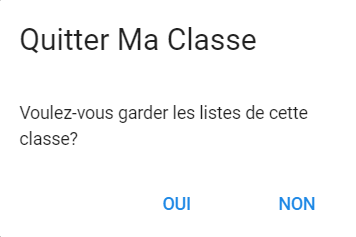
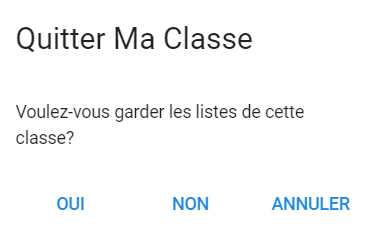
Cleaned up joinclass screen

diff --git a/vue-vocs/src/components/Classe/JoinClass.vue b/vue-vocs/src/components/Classe/JoinClass.vue
@@ -1,114 +1,156 @@
+<!--////////////////////////////////////////////////////////////////////////////////////////////////////////////////////////////-->
+<!--////////////////////////////////////////////////////////////////////////////////////////////////////////////////////////////-->
+<!--////////////////////////////////////////////////////////////////////////////////////////////////////////////////////////////-->
+<!--//////////////////////////////////////////////////////////TEMPLATE///////////////////////////////////////////////////////// -->
+<!--////////////////////////////////////////////////////////////////////////////////////////////////////////////////////////////-->
+<!--////////////////////////////////////////////////////////////////////////////////////////////////////////////////////////////-->
+<!--////////////////////////////////////////////////////////////////////////////////////////////////////////////////////////////-->
+
 <template>
   <v-container fluid style="padding-top: 90px; background-color: #8BC3DC; padding-right: 0px; padding-left: 0px; padding-bottom: 0px">
-    <v-layout row wrap >
-      <v-flex xs6 offset-xs3 class="mb-4">
-        <v-card color="white" style="border-radius: 500px; height: 220px; width:220px; padding-top: 30px; margin:auto" class="white--text">
-          <div class="text-xs-center mt-3">
-            <v-icon class="gray--text" style="font-size: 120px; margin-right: 1%; margin-top: 3%">school</v-icon>
-          </div>
-        </v-card>
-      </v-flex>
-    </v-layout>
-    <v-layout row wrap>
-      <v-flex class="text-xs-center">
-        <h2 class="white--text">Rejoindre une classe</h2>
-      </v-flex>
-    </v-layout>
-    <v-layout style="background-color: #ebebeb" row wrap>
-      <v-card style="width:100%; height: 309px" class="gray--text text-xs-center">
-        <v-select
-          style="width: 30%; margin: auto; margin-top: 13px"
-          :items="allSchools"
-          v-model="schoolSearch"
-          label="Enter un établissement"
-          autocomplete
-          required
-        ></v-select>
-        <v-select
-          style="width: 30%; margin: auto; margin-top: 13px"
-          :items="theClasses"
-          v-model="classSearch"
-          label="Enter une class"
-          required
-        ></v-select>
-        <br>
-        <v-btn :disabled="classSearch === ''" @click="showJoinClassDialog = true">Envoyer une demande</v-btn>
-        <!--<div v-if="notifications.demandSend.length > 0" >Vous avez déjà envoyé une demande</div>-->
-      </v-card>
-    </v-layout>
-    <v-dialog v-model="showJoinClassDialog" persistent>
-      <v-card>
-        <v-card-title class="headline">Êtes-vous sûr de vouloir envoyer une demande à cette class?</v-card-title>
-        <v-card-actions>
-          <v-spacer></v-spacer>
-          <v-btn color="blue darken-1" flat @click.native="showJoinClassDialog = false">Annuler</v-btn>
-          <v-btn color="blue darken-1" flat @click.native="acceptClassJoin">Envoyer</v-btn>
-        </v-card-actions>
-      </v-card>
-    </v-dialog>
+
+  <!--//*---------------->
+  <!--// *Top Section -->
+  <!--//*---------------->
+  <!--"D:/Sync/CS Dev/Vocs/vue-vocs/src/assets/Screenshots(For Commenting)/Classe/JoinClass-TopSection.png"-->
+                      <v-layout row wrap >
+                        <v-flex xs6 offset-xs3 class="mb-4">
+                        <!-- Class Icon Section -->
+                        <!--"D:/Sync/CS Dev/Vocs/vue-vocs/src/assets/Screenshots(For Commenting)/Classe/JoinClass-TopSection-Icon.png"-->
+                            <div class="text-xs-center mt-3">
+                              <v-icon class="white--text" style="font-size: 120px; margin-right: 1%; margin-top: 3%">school</v-icon>
+                            </div>
+                        </v-flex>
+                      </v-layout>
+                      <!-- My Class Title Section -->
+                      <!--"D:/Sync/CS Dev/Vocs/vue-vocs/src/assets/Screenshots(For Commenting)/Classe/JoinClass-TopSection-Title.png"-->
+                      <v-layout row wrap>
+                        <v-flex class="text-xs-center">
+                          <h2 class="white--text">Rejoindre une classe</h2>
+                        </v-flex>
+                      </v-layout>
+  <!--//!---------------->
+  <!--// !END Top Section -->
+  <!--//!---------------->
+
+
+  <!--//*---------------->
+  <!--// *Form Section -->
+  <!--//*---------------->
+  <!--"D:/Sync/CS Dev/Vocs/vue-vocs/src/assets/Screenshots(For Commenting)/Classe/JoinClass-LowerSection.png"-->
+                      <v-layout style="background-color: #ebebeb" row wrap>
+                        <v-card style="width:100%; height: 309px" class="gray--text text-xs-center">
+                          <v-select
+                            style="width: 30%; margin: auto; margin-top: 13px"
+                            :items="allSchools"
+                            v-model="schoolSearch"
+                            label="Enter un établissement"
+                            autocomplete
+                            required
+                          ></v-select>
+                          <v-select
+                            style="width: 30%; margin: auto; margin-top: 13px"
+                            :items="theClasses"
+                            v-model="classSearch"
+                            label="Enter une class"
+                            required
+                          ></v-select>
+                          <br>
+                          <v-btn :disabled="classSearch === ''" @click="showJoinClassDialog = true">Envoyer une demande</v-btn>
+                          <!--<div v-if="notifications.demandSend.length > 0" >Vous avez déjà envoyé une demande</div>-->
+                        </v-card>
+                      </v-layout>
+  <!--//!---------------->
+  <!--// !END Form Section -->
+  <!--//!---------------->
+
+
+  <!--//*---------------->
+  <!--// *Confirm Invitation Send Dialog -->
+  <!--//*---------------->
+                      <v-dialog v-model="showJoinClassDialog" persistent>
+                        <v-card>
+                          <v-card-title class="headline">Êtes-vous sûr de vouloir envoyer une demande à cette class?</v-card-title>
+                          <v-card-actions>
+                            <v-spacer></v-spacer>
+                            <v-btn color="blue darken-1" flat @click.native="showJoinClassDialog = false">Annuler</v-btn>
+                            <v-btn color="blue darken-1" flat @click.native="acceptClassJoin">Envoyer</v-btn>
+                          </v-card-actions>
+                        </v-card>
+                      </v-dialog>
+  <!--//!---------------->
+  <!--// !Confirm Invitation Send Dialog -->
+  <!--//!---------------->
+
+
   </v-container>
 </template>
 
+
+
+
+
+
+<!--////////////////////////////////////////////////////////////////////////////////////////////////////////////////////////////-->
+<!--////////////////////////////////////////////////////////////////////////////////////////////////////////////////////////////-->
+<!--////////////////////////////////////////////////////////////////////////////////////////////////////////////////////////////-->
+<!--//////////////////////////////////////////////////////////SCRIPT///////////////////////////////////////////////////////// -->
+<!--////////////////////////////////////////////////////////////////////////////////////////////////////////////////////////////-->
+<!--////////////////////////////////////////////////////////////////////////////////////////////////////////////////////////////-->
+<!--////////////////////////////////////////////////////////////////////////////////////////////////////////////////////////////-->
+
 <script>
-  export default {
-    data () {
-      return {
-        theClasses: [],
-        allSchools: [],
-        students: [
-          {name: 'Harvey', surname: 'Roberts', avatar: 'https://www.practicepanther.com/wp-content/uploads/2017/02/user.png'},
-          {name: 'Simon', surname: 'Aranud', avatar: 'https://www.practicepanther.com/wp-content/uploads/2017/02/user.png'},
-          {name: 'Mathis', surname: 'Delaunay', avatar: 'https://www.practicepanther.com/wp-content/uploads/2017/02/user.png'},
-          {name: 'Etienne', surname: 'Lebarillier', avatar: 'https://www.practicepanther.com/wp-content/uploads/2017/02/user.png'},
-          {name: 'Antoine', surname: 'Lebrun', avatar: 'https://www.practicepanther.com/wp-content/uploads/2017/02/user.png'},
-          {name: 'Maxime', surname: 'Gouet', avatar: 'https://www.practicepanther.com/wp-content/uploads/2017/02/user.png'},
-          {name: 'Christophe', surname: 'Genard', avatar: 'https://www.practicepanther.com/wp-content/uploads/2017/02/user.png'},
-          {name: 'Loic', surname: 'Bitter', avatar: 'https://www.practicepanther.com/wp-content/uploads/2017/02/user.png'},
-          {name: 'Thomas', surname: 'Herbelin', avatar: 'https://www.practicepanther.com/wp-content/uploads/2017/02/user.png'}
-        ],
-        schoolSearch: '',
-        classSearch: '',
-        showJoinClassDialog: false
-      }
-    },
-    computed: {
-      allClasses () {
-        return this.$store.getters.allClasses
-      },
-      schools () {
-        return this.$store.getters.schools
-      },
-      notifications () {
-        return this.$store.getters.myDemands
-      }
-    },
-    methods: {
-      acceptClassJoin () {
-/*
-        this.$store.dispatch('setFirstTimeStudent', true)
-        this.$store.dispatch('setRoles', 'STUDENT') */
-        this.showJoinClassDialog = false
-        var id = null
-        for (var i = 0; i < this.allClasses.length; i++) {
-          if (this.allClasses[i].name === this.classSearch) {
-            id = this.allClasses[i].id
-          }
-        }
-        var theClassToSendOff = {
-          id: id,
-          name: this.classSearch
-        }
-        this.$store.dispatch('setUserClass', theClassToSendOff)
-      }
-    },
-    created () {
-      this.$store.dispatch('setIsPlayingGame', false)
-      for (var i = 0; i < this.allClasses.length; i++) {
-        this.theClasses[i] = this.allClasses[i].name
-      }
-      for (var y = 0; y < this.schools.length; y++) {
-        this.allSchools[y] = this.schools[y].nom
-      }
-    }
-  }
+export default {
+	data() {
+		return {
+			theClasses: [],
+			allSchools: [],
+			schoolSearch: "",
+			classSearch: "",
+			showJoinClassDialog: false
+		};
+	},
+	computed: {
+		allClasses() {
+			return this.$store.getters.allClasses;
+		},
+		schools() {
+			return this.$store.getters.schools;
+		},
+		notifications() {
+			return this.$store.getters.myDemands;
+		}
+	},
+	methods: {
+		acceptClassJoin() {
+			/*this.$store.dispatch('setFirstTimeStudent', true)
+      this.$store.dispatch('setRoles', 'STUDENT')*/
+			this.showJoinClassDialog = false;
+			var id = null;
+			for (var i = 0; i < this.allClasses.length; i++) {
+				// *! NOT GREAT WAY IF THERE ARE CLASSES WITH THE SAME NAME
+				if (this.allClasses[i].name === this.classSearch) {
+					id = this.allClasses[i].id;
+				}
+			}
+			var theClassToSendOff = {
+				id: id,
+				name: this.classSearch
+			};
+			this.$store.dispatch("setUserClass", theClassToSendOff);
+		}
+	},
+	created() {
+		// We say that the player isn't playing a game to keep/set the side drawer to open
+		this.$store.dispatch("setIsPlayingGame", false);
+		// Create an array an only put in the names of the classes for the list
+		for (var i = 0; i < this.allClasses.length; i++) {
+			this.theClasses[i] = this.allClasses[i].name;
+		}
+		// Create an array an only put in the names of the schools for the list
+		for (var y = 0; y < this.schools.length; y++) {
+			this.allSchools[y] = this.schools[y].nom;
+		}
+	}
+};
 </script>

diff --git a/vue-vocs/src/components/Classe/Class.vue b/vue-vocs/src/components/Classe/Class.vue
@@ -112,7 +112,7 @@
   <!--// *Confirm Quit Class Dialog Section -->
   <!--//*---------------->
   <!--"D:/Sync/CS Dev/Vocs/vue-vocs/src/assets/Screenshots(For Commenting)/Classe/Class-Dialogs-QuitClass.png"-->
-                      <v-dialog v-model="confirmClassLeaveDialog" persistent>
+                      <v-dialog v-model="confirmClassLeaveDialog" max-width="300" persistent>
                         <v-card>
                           <v-card-title class="headline">Quitter Ma Classe</v-card-title>
                           <v-card-text>Voulez-vous garder les listes de cette classe?</v-card-text>
